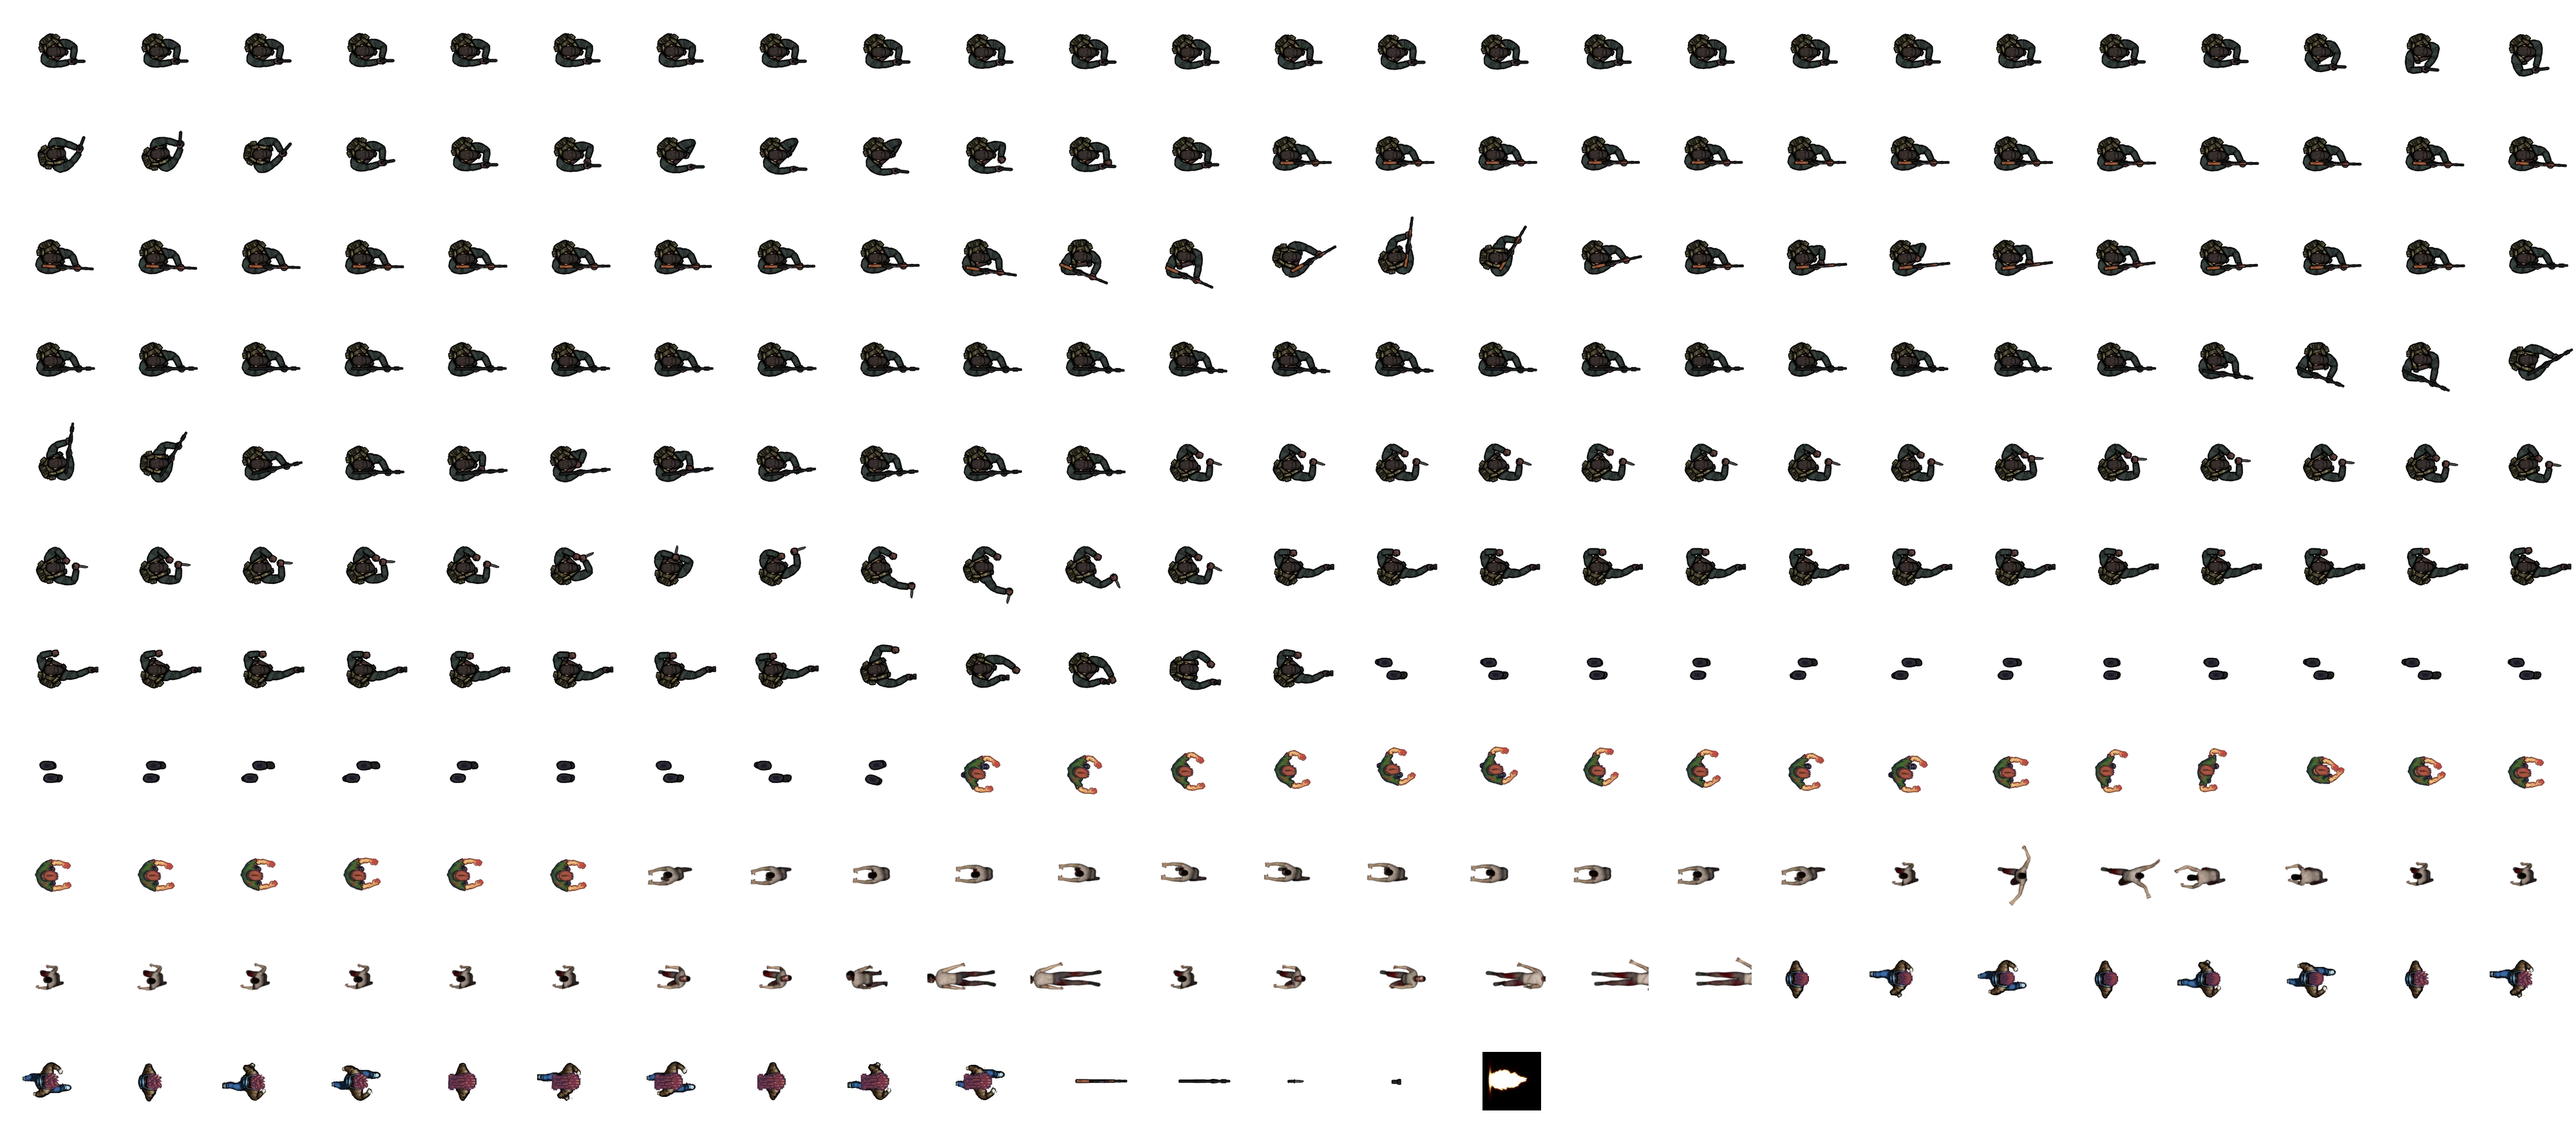
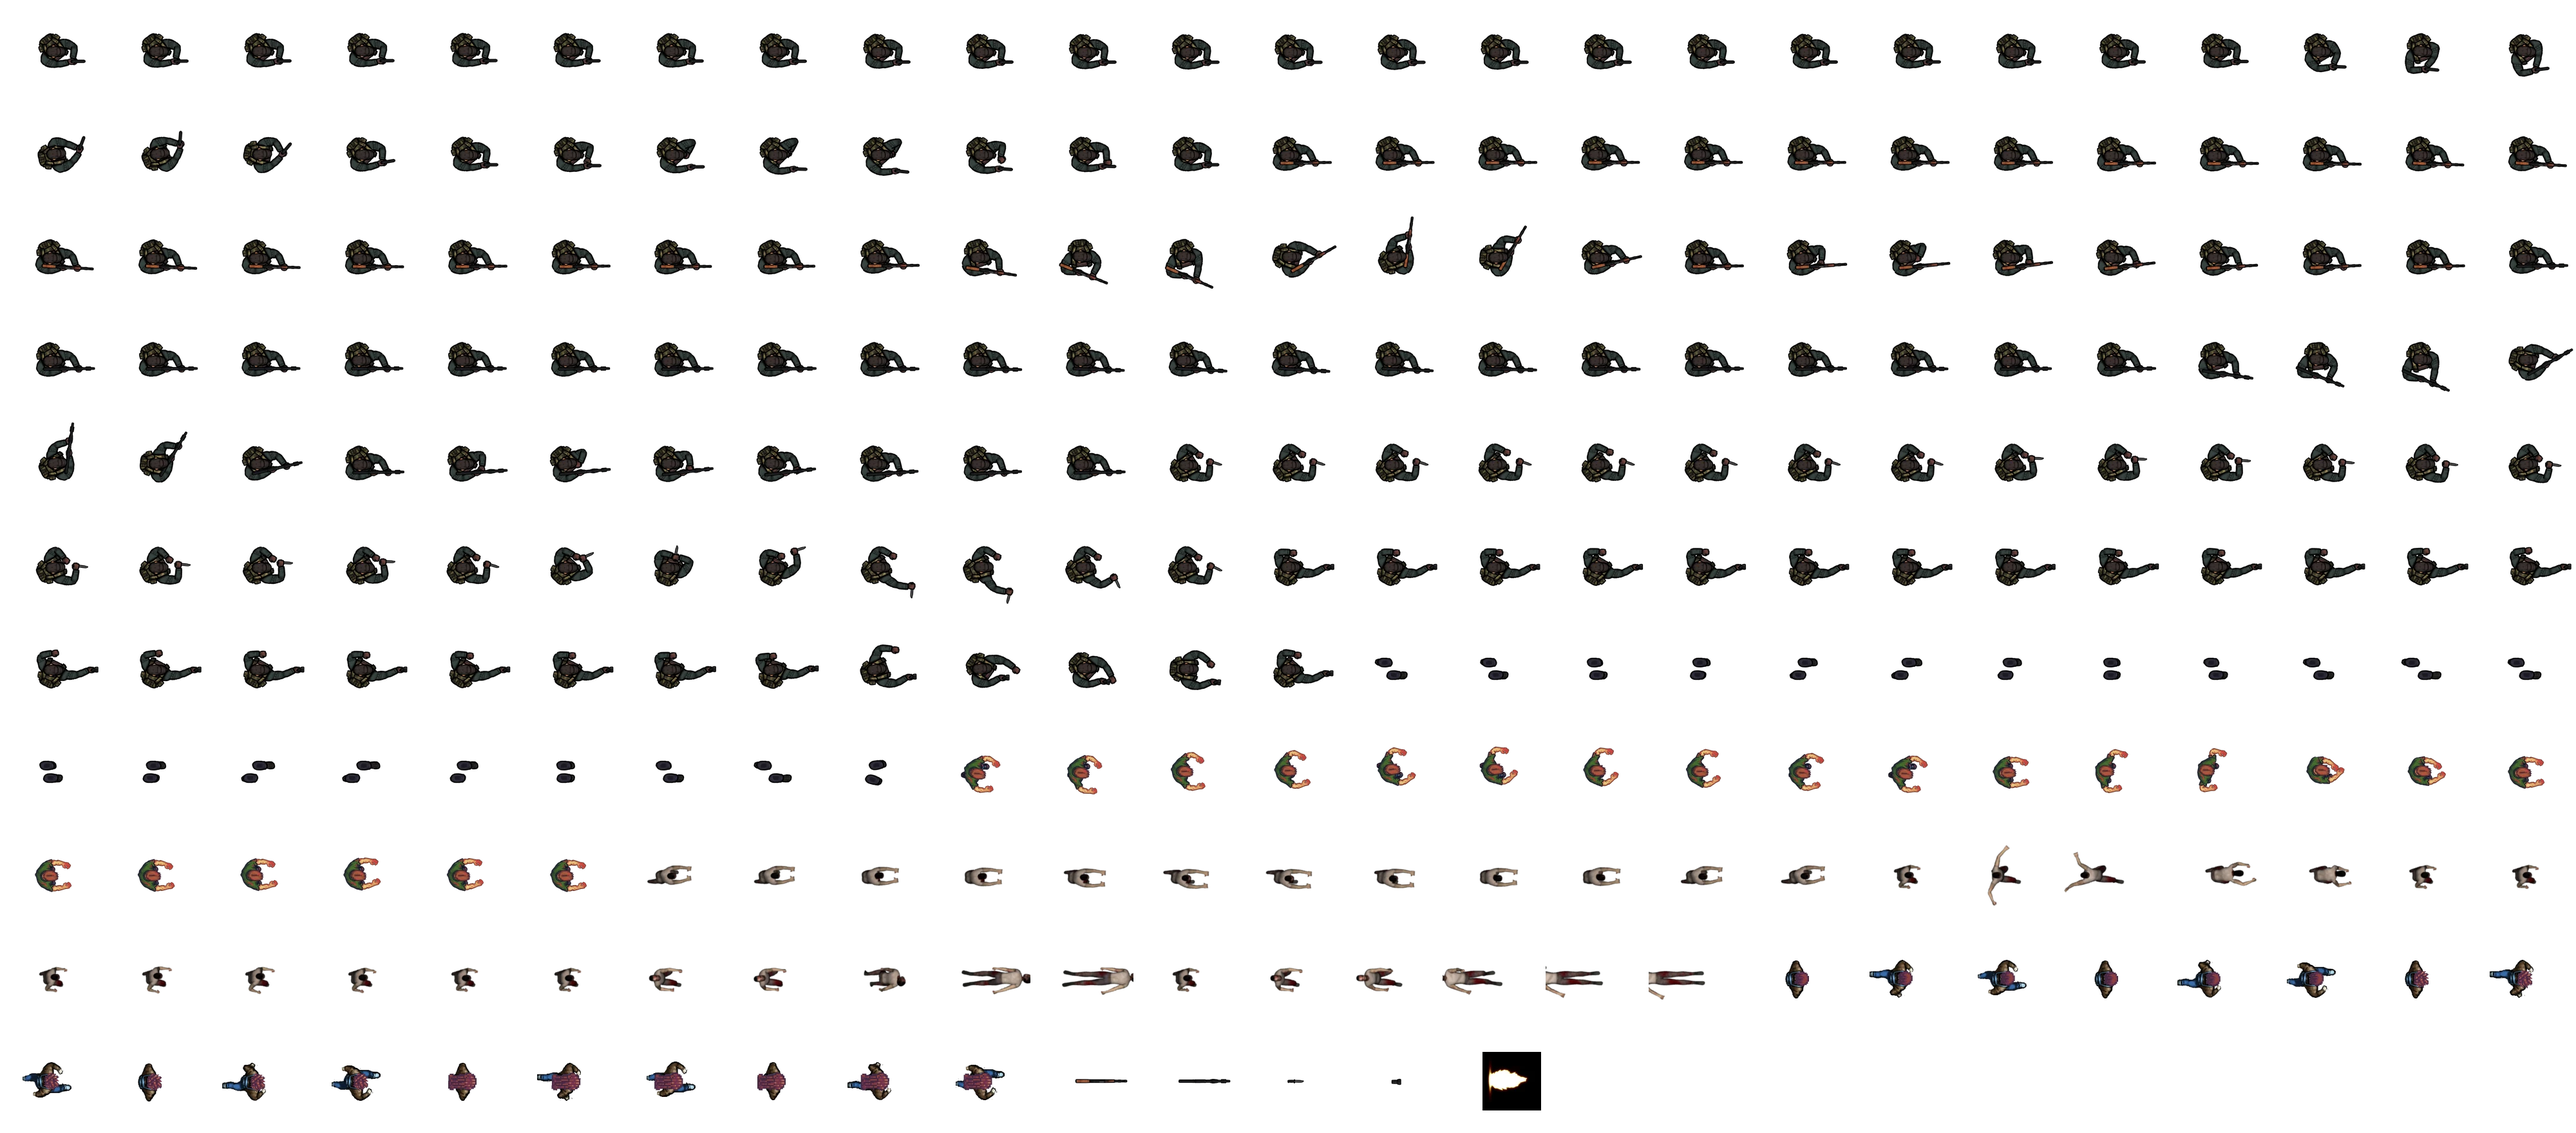
0.23.2: Biss-Chance, Meldungen oben, Autos längs geparkt, Abstand im Verkehr, Bots heben auf

diff --git a/zombies/client/verwaltung.html b/zombies/client/verwaltung.html
@@ -552,6 +552,8 @@
   <div class="tn-zeile"><input type="range" id="tnMenschen" min="0" max="200" step="5"><span id="tnMenschenWert">50</span></div>
   <label for="tnAnst">Vom Biss bis zur Verwandlung</label>
   <div class="tn-zeile"><input type="range" id="tnAnst" min="1" max="30" step="1"><span id="tnAnstWert">5 min</span></div>
+  <label for="tnBiss">Biss-Chance bei Stadtbewohnern (je Sekunde Berührung)</label>
+  <div class="tn-zeile"><input type="range" id="tnBiss" min="0" max="100" step="5"><span id="tnBissWert">100 %</span></div>
   <label for="tnFeuer">Brände am Anfang: alle</label>
   <div class="tn-zeile"><input type="range" id="tnFeuer" min="0" max="10" step="0.5"><span id="tnFeuerWert">1 min</span></div>
   <label for="tnFeuerPhase">… während der ersten</label>
@@ -623,6 +625,7 @@
     if (aktiv !== 'tnMenschen') { $('tnMenschen').value = e.menschen === undefined ? 50 : e.menschen; $('tnMenschenWert').textContent = $('tnMenschen').value; }
     if (aktiv !== 'tnAnst') { $('tnAnst').value = e.ansteckung || 5; $('tnAnstWert').textContent = $('tnAnst').value + ' min'; }
     var feld = function (id, wert, text) { if (aktiv !== id) { $(id).value = wert; $(id + 'Wert').textContent = text(Number($(id).value)); } };
+    feld('tnBiss', e.biss === undefined ? 100 : e.biss, function (v) { return v ? v + ' %' : 'nie'; });
     feld('tnFeuer', e.feuer === undefined ? 1 : e.feuer, function (v) { return v ? String(v).replace('.', ',') + ' min' : 'aus'; });
     feld('tnFeuerPhase', e.feuerPhase === undefined ? 20 : e.feuerPhase, function (v) { return v + ' min'; });
     feld('tnVerkehr', e.verkehr === undefined ? 6 : e.verkehr, function (v) { return String(v); });
@@ -666,6 +669,7 @@
     anfrage('verwaltung/api', { sichtkegel: $('tnKegel').checked }).then(function (d) { zeige(d); status('✓ Gespeichert'); }).catch(function (e) { status('Fehler: ' + e.message, true); });
   });
   regler('tnAnst', function (v) { return v + ' min'; }, function (v) { return { ansteckung: v }; });
+  regler('tnBiss', function (v) { return v ? v + ' %' : 'nie'; }, function (v) { return { biss: v }; });
   Array.prototype.forEach.call(document.querySelectorAll('#tagNachtKarte [data-uhr]'), function (b) {
     b.addEventListener('click', function () {
       anfrage('verwaltung/uhr', { uhr: Number(b.getAttribute('data-uhr')) }).then(function (d) { zeige(d); status(d.uhr === null ? 'Niemand spielt – Uhrzeit nicht gesetzt' : '✓ Uhrzeit gesetzt', d.uhr === null); })

diff --git a/zombies/client/stil.css b/zombies/client/stil.css
@@ -89,11 +89,16 @@ button:disabled { opacity: .6; }
 #liste .unten { color: #ff8a80; }
 #liste .weg { opacity: .5; }
 
+/* Meldungen oben unter der Anzeige, klein und halbdurchsichtig – nicht mehr mitten im Bild */
 #meldungen {
-  position: fixed; left: 0; right: 0; top: 30%; text-align: center; pointer-events: none;
-  font-weight: 800; font-size: 18px; text-shadow: 0 2px 5px #000;
+  position: fixed; left: 50%; transform: translateX(-50%); top: 44px; width: min(520px, 70vw);
+  display: flex; flex-direction: column; align-items: center; pointer-events: none;
+  font-weight: 700; font-size: 13px;
 }
-#meldungen div { transition: opacity .5s; margin: 4px 0; }
+#meldungen div {
+  transition: opacity .5s; margin: 2px 0; padding: 3px 10px; border-radius: 10px;
+  background: #0009; text-shadow: 0 1px 2px #000; text-align: center; max-width: 100%;
+}
 #hinweis {
   position: fixed; left: 50%; bottom: 120px; transform: translateX(-50%); display: none;
   background: #000b; padding: 10px 16px; border-radius: 12px; font-weight: 700; text-align: center;

diff --git a/tools/figuren2_schneiden.py b/tools/figuren2_schneiden.py
@@ -75,7 +75,7 @@ for art, unser, n in (("walk", "laufen", 12), ("attack01", "angriff", 6), ("idle
     fs = auswahl(dateien(f"zombie01/{art}/*.png"), n)
     if not fs: continue
     m = schwerpunkt(Image.open(fs[0]).convert("RGBA"), lambda r, g, b, a: a > 128)
-    gruppe(f"z7_{unser}", fs, 1.35, lambda im, f, m=m: (im.width - m[0], im.height - m[1]), drehen=180)   # blickt nach links → umdrehen
+    gruppe(f"z7_{unser}", fs, 1.35, lambda im, f, m=m: m)   # blickt schon nach rechts (Arme vorn)
 
 # ---------- Bürger: Bilder verschieden groß → jedes Bild am Haar ausrichten ----------
 haar = lambda r, g, b, a: a > 128 and r > 95 and g < 85 and b > 60 and r > b

diff --git a/zombies/CHANGELOG.md b/zombies/CHANGELOG.md
@@ -1,5 +1,17 @@
 # Changelog
 
+## 0.23.2 – 18.11.2026
+
+- Neue Einstellung „Biss-Chance bei Stadtbewohnern“ (Tag, Nacht, Ausbruch): Bei Berührung versucht ein Zombie einmal
+  pro Sekunde zu beißen; 100 % wie bisher, 0 % nie
+- Meldungen erscheinen klein oben unter der Anzeige statt mitten im Bild, höchstens drei auf einmal
+- Geparkte Autos stehen gerade längs am Straßenrand, nach der Straße ausgerichtet (auch Wrack und offener Kofferraum)
+- Fahrende Autos und Busse halten Abstand zum Vordermann statt übereinander zu fahren; steht der Vordermann länger
+  als 5 s, wird vorbeigefahren. Busse halten nicht mehr vor Haustüren
+- Bots heben brauchbare Dinge vom Boden auf (z. B. was ein Mitspieler fallen lässt), legen Überzähliges ab und legen
+  aufgehobene Munition ein
+- Der neue Zombie, der rückwärts lief, läuft jetzt vorwärts; die neuen Zombies hinterlassen wieder die bisherigen Leichen
+
 ## 0.23.1 – 18.11.2026
 
 - Handy: Der Figurenbogen ist kleiner (4000×1760 statt 2688×5152 Pixel, WebP 0,5 MB statt 2,8 MB). Viele Handys laden
